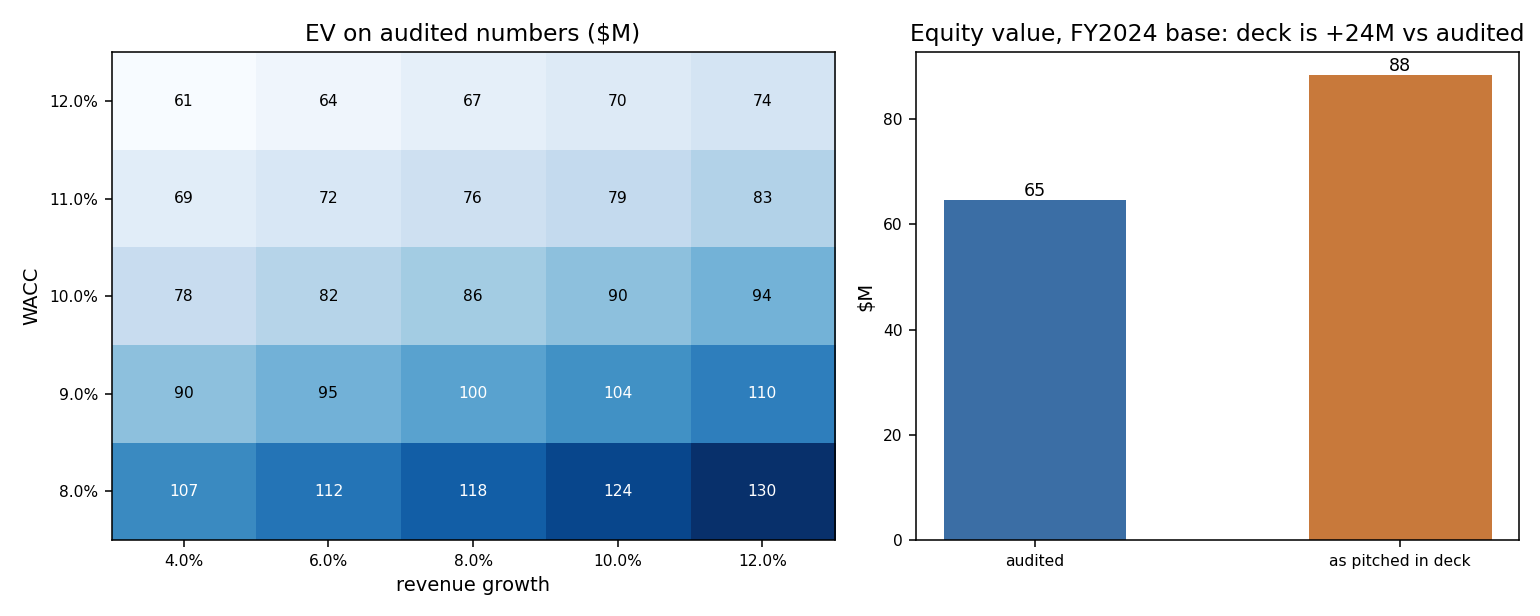
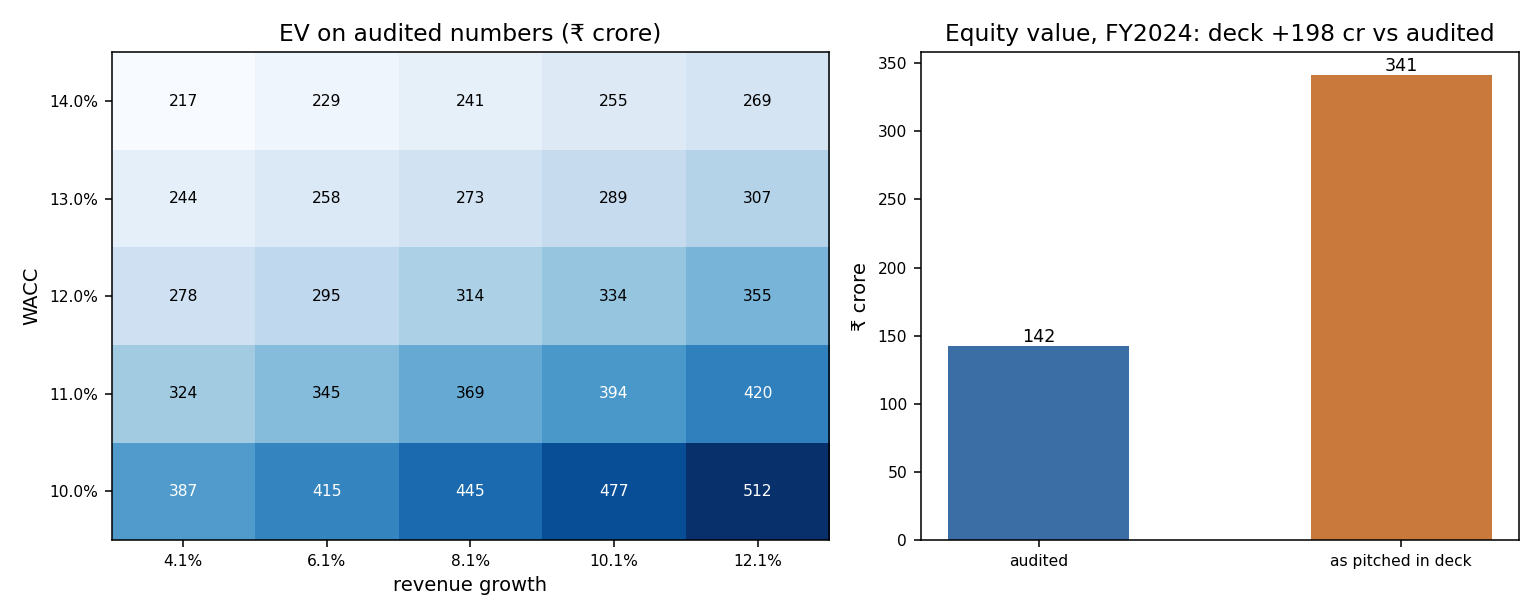
Regenerate example output and test results

diff --git a/output/diligence/report.md b/output/diligence/report.md
@@ -6,51 +6,51 @@ Reference order when documents disagree: audited statements, then model, then de
 
 ## F01  [high]  capex, FY2024 (mismatch)
 
-- Claim: $8.2M in model, operating_model.xlsx Summary!D7
-  - source text: "Capex: 8161"
-- Reference: $6.6M in audited, audited_financials.pdf p.4
-  - source text: "Capital expenditures (6,619) (6,646) (7,577)"
-- Gap: $1.5M
-- Ask: Model shows capex of $8.2M for FY2024 (Summary!D7) but the audited shows $6.6M (p.4). What explains the gap? Ask whether the model splits maintenance and growth capex and whether capitalised development costs are included.
+- Claim: ₹46.50 cr in model, operating_model.xlsx Summary!D7
+  - source text: "Capex: 46.5"
+- Reference: ₹69.94 cr in audited, audited_financials.pdf p.4
+  - source text: "Purchase of property, plant and equipment (69.94) (40.19)"
+- Gap: -₹23.44 cr
+- Ask: The model shows capex of ₹46.50 cr for FY2024 (Summary!D7) but the audited statements show ₹69.94 cr (p.4). What explains the gap? Ask for the fixed asset schedule and whether capital work in progress, capitalised borrowing costs and intangibles are in the model figure.
 
-## F02  [high]  ebitda, FY2024 (mismatch)
+## F02  [high]  net debt, FY2024 (mismatch)
 
-- Claim: $17.3M in deck, management_deck.pptx slide 2
-  - source text: "EBITDA ($M) | 12.0 | 13.3 | 17.3"
-- Reference: $15.5M in audited, audited_financials.pdf p.2 + p.4
-  - source text: "operating income + D&A"
-- Gap: $1.8M
-- Ask: Deck shows ebitda of $17.3M for FY2024 (slide 2) but the audited shows $15.5M (p.2 + p.4). What explains the gap? Ask for the EBITDA reconciliation from operating income, and list every add-back with support.
+- Claim: ₹92.80 cr in deck, management_deck.pptx slide 3
+  - source text: "Net debt (FY24): ₹92.8 Cr"
+- Reference: ₹171.47 cr in audited, audited_financials.pdf p.2
+  - source text: "borrowings less cash and cash equivalents"
+- Gap: -₹78.67 cr
+- Ask: The deck shows net debt of ₹92.80 cr for FY2024 (slide 3) but the audited statements show ₹171.47 cr (p.2). What explains the gap? Ask which debt-like items are in each figure (lease liabilities under Ind AS 116, promoter loans, bill discounting, deferred consideration) and which cash balances count (cash and cash equivalents versus other bank balances and deposits).
 
-## F03  [medium]  arr, FY2024 (unsupported)
+## F03  [medium]  ebitda, FY2024 (mismatch)
 
-- Claim: $37.1M in deck, management_deck.pptx slide 3
-  - source text: "ARR (FY2024): $37.1M"
-- Ask: The deck quotes arr of $37.1M for FY2024 (slide 3) and nothing in the statements or model backs it. How is it defined, and can we see the underlying schedule? 
+- Claim: ₹123.40 cr in deck, management_deck.pptx slide 2
+  - source text: "EBITDA | 105.4 | 123.4"
+- Reference: ₹114.00 cr in audited, audited_financials.pdf p.3, p.4
+  - source text: "revenue from operations - (total expenses - finance costs - depreciation)"
+- Gap: ₹9.40 cr
+- Ask: The deck shows ebitda of ₹123.40 cr for FY2024 (slide 2) but the audited statements show ₹114.00 cr (p.3, p.4). What explains the gap? Ask for the bridge from profit before tax (add finance costs and depreciation, strip other income and exceptional items) and every add-back with support.
 
-## F04  [medium]  gross margin, FY2024 (mismatch)
+## F04  [medium]  order book, FY2024 (unsupported)
 
-- Claim: 40.0% in deck, management_deck.pptx slide 2
-  - source text: "Gross margin (%) | 36.2 | 35.5 | 40.0"
-- Reference: 36.4% in audited, audited_financials.pdf p.2 / p.2
-  - source text: "gross profit / revenue"
-- Gap: +3.6 pp
-- Ask: Deck shows gross margin of 40.0% for FY2024 (slide 2) but the audited shows 36.4% (p.2 / p.2). What explains the gap? Ask how cost of sales is defined in the deck versus the statements (freight, depreciation, allocations).
+- Claim: ₹796.30 cr in deck, management_deck.pptx slide 3
+  - source text: "Order book (FY24): ₹796.3 Cr"
+- Ask: The deck quotes order book of ₹796.30 cr for FY2024 (slide 3) and nothing in the statements or model backs it. How is it defined, and can we see the underlying schedule? Ask for the order book by customer with order dates, delivery schedule and cancellation terms, and how it ties to revenue recognition under Ind AS 115.
 
 ## F05  [medium]  revenue, FY2023 (mismatch)
 
-- Claim: $87.7M in model, operating_model.xlsx Summary!C4
-  - source text: "Revenue: 87674"
-- Reference: $90.9M in audited, audited_financials.pdf p.2
-  - source text: "Revenue 100,497 90,939 86,192"
-- Gap: -$3.3M
-- Ask: Model shows revenue of $87.7M for FY2023 (Summary!C4) but the audited shows $90.9M (p.2). What explains the gap? Ask for a revenue bridge by segment, and whether the figure includes pro-forma or acquired revenue.
+- Claim: ₹795.77 cr in model, operating_model.xlsx Summary!C4
+  - source text: "Revenue: 795.77"
+- Reference: ₹822.10 cr in audited, audited_financials.pdf p.3
+  - source text: "Revenue from operations 23 888.29 822.10"
+- Gap: -₹26.33 cr
+- Ask: The model shows revenue of ₹795.77 cr for FY2023 (Summary!C4) but the audited statements show ₹822.10 cr (p.3). What explains the gap? Ask for a revenue bridge by segment, whether the figure is net of GST and trade discounts, and whether it includes pro-forma or acquired revenue.
 
 ## F06  [medium]  revenue, FY2024 (internal)
 
-- Claim: $95.7M in audited, audited_financials.pdf p.5
+- Claim: ₹838.08 cr in audited, audited_financials.pdf p.5
   - source text: "sum of segment revenue"
-- Reference: $100.5M in audited, audited_financials.pdf p.2
-  - source text: "Revenue 100,497 90,939 86,192"
-- Gap: -$4.8M
-- Ask: Segment revenue in the notes adds to $95.7M for FY2024 (p.5) but the income statement reports $100.5M (p.2). Which is right, and is a segment missing? Ask for a revenue bridge by segment, and whether the figure includes pro-forma or acquired revenue.
+- Reference: ₹888.29 cr in audited, audited_financials.pdf p.3
+  - source text: "Revenue from operations 23 888.29 822.10"
+- Gap: -₹50.21 cr
+- Ask: Segment revenue in the notes adds to ₹838.08 cr for FY2024 (p.5) but the income statement reports ₹888.29 cr (p.3). Which is right, and is a segment missing? Ask for a revenue bridge by segment, whether the figure is net of GST and trade discounts, and whether it includes pro-forma or acquired revenue.
